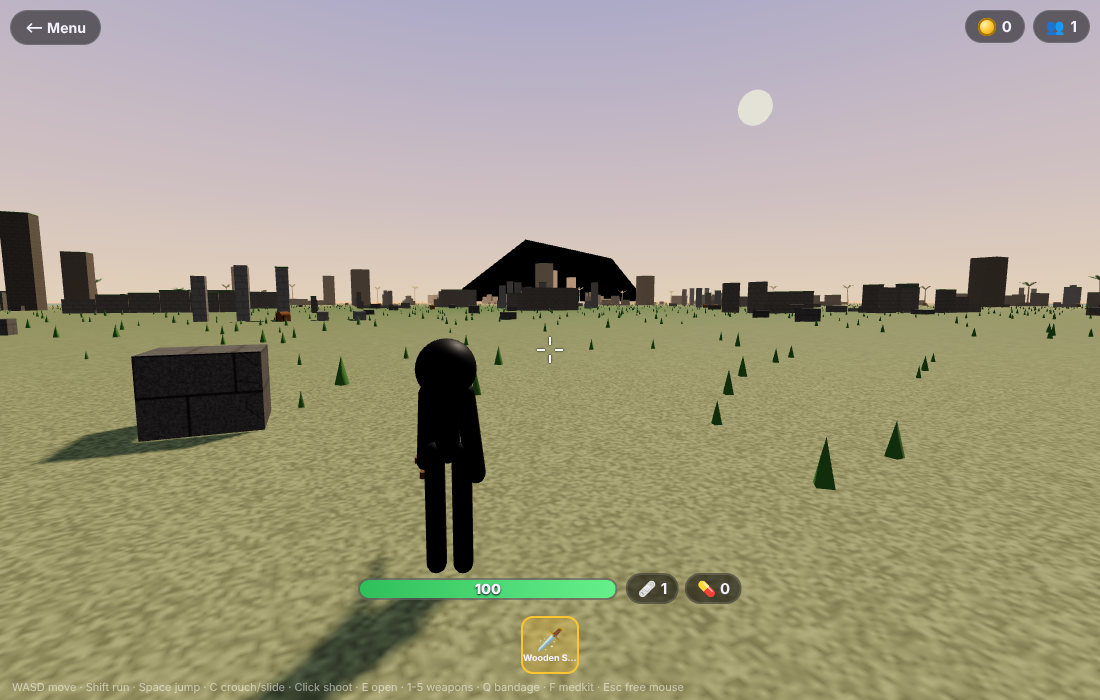
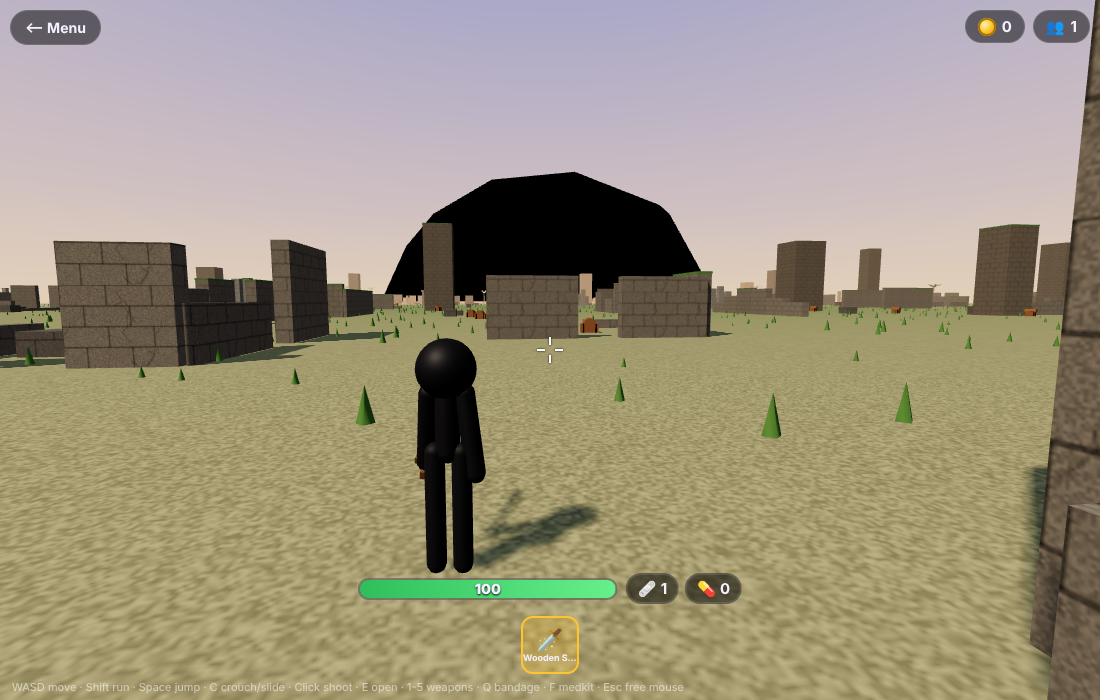
Client handles 'broke' and keeps 'dur'; browser test walks forward; new in-game screenshot (#12)
Claude-Session: https://claude.ai/code/session_01QgSuHVNhwYzMk86MH96zJY

diff --git a/apps/game/test/e2e/menu-shop.test.js b/apps/game/test/e2e/menu-shop.test.js
@@ -91,7 +91,7 @@ const shot = async name => {
 const isVisible = sel => page.locator(sel).isVisible();
 
 test('sign up, shop, join the arena, leave: no errors', { skip: !RUN && 'set E2E=1 to run (npm run test:e2e)', timeout: 120000 }, async () => {
-  await page.goto(`http://127.0.0.1:${port}/`);
+  await page.goto(`http://127.0.0.1:${port}/?debug=1`); // ?debug: window.pvpDebug() shows the game state
   await page.locator('#login').waitFor({ state: 'visible' });
 
   // sign up
@@ -130,10 +130,23 @@ test('sign up, shop, join the arena, leave: no errors', { skip: !RUN && 'set E2E
   assert.equal(await isVisible('#loading'), false);
   await shot('in-game.png');
 
+  // walk forward for a second with the keyboard: the stickman must move
+  await page.waitForFunction(() => window.pvpDebug?.().me != null);
+  const start = (await page.evaluate(() => window.pvpDebug())).me;
+  await page.keyboard.down('w');
+  await page.waitForTimeout(1000);
+  await page.keyboard.up('w');
+  await page.waitForTimeout(200);
+  const end = (await page.evaluate(() => window.pvpDebug())).me;
+  const moved = Math.hypot(end.x - start.x, end.z - start.z);
+  assert.ok(moved > 1, `player should move forward, moved ${moved.toFixed(2)} m`);
+  assert.equal((await page.evaluate(() => window.pvpDebug())).mode, 'play');
+
   // leave
   await page.click('#btnLeave');
   await page.locator('#menu').waitFor({ state: 'visible' });
   assert.equal(await isVisible('#hud'), false);
+  assert.equal((await page.evaluate(() => window.pvpDebug())).mode, 'menu');
 
   // log out and back in with the saved account
   await page.click('#btnLogout');

diff --git a/apps/game/public/js/game.js b/apps/game/public/js/game.js
@@ -414,6 +414,7 @@ export class Game {
       case 'mine-': { const x = this.mines.get(m.id); if (x) { this.scene.remove(x); this.mines.delete(m.id); } return; }
       case 'hitmark': return this.hitmark(m.dead);
       case 'hurt': return this.onHurt(m);
+      case 'broke': return this.toast(`Your ${C.WEAPONS[m.weapon]?.name || 'weapon'} broke!`); // an 'inv' follows
       case 'ko': return this.onKO(m);
       case 'dead': this.endPlay(); return this.ui.onDead(m.by, m.weapon);
       case 'left':
@@ -508,7 +509,7 @@ export class Game {
   }
 
   onInventory(m) {
-    this.inv = m;
+    this.inv = m; // weapons, dur (uses left per slot, null = never breaks), slot, bandages, medkits, coins, hp
     this.coins = m.coins;
     $('hudCoins').textContent = m.coins;
     $('bandageCount').textContent = m.bandages;

diff --git a/README.md b/README.md
@@ -21,7 +21,7 @@ Set `PORT` to use another port (default 3000). Run every test with `npm test`. R
 
 ## Layout
 
-- `apps/game/`: the game (server, phone/browser code, shared code). Accounts are saved in `apps/game/data/accounts.json`.
+- `apps/game/`: the game: thin glue that connects the packages (server and phone/browser code). Accounts are saved in `apps/game/data/accounts.json` (or the file in the `DATA_FILE` environment variable; tests always use a temp file).
 - `packages/`: reusable packages, see [CATALOG.md](CATALOG.md) for the list and [packages/README.md](packages/README.md) for the template.
 
 > Work in progress: the game is being split into reusable packages (see the backlog).
